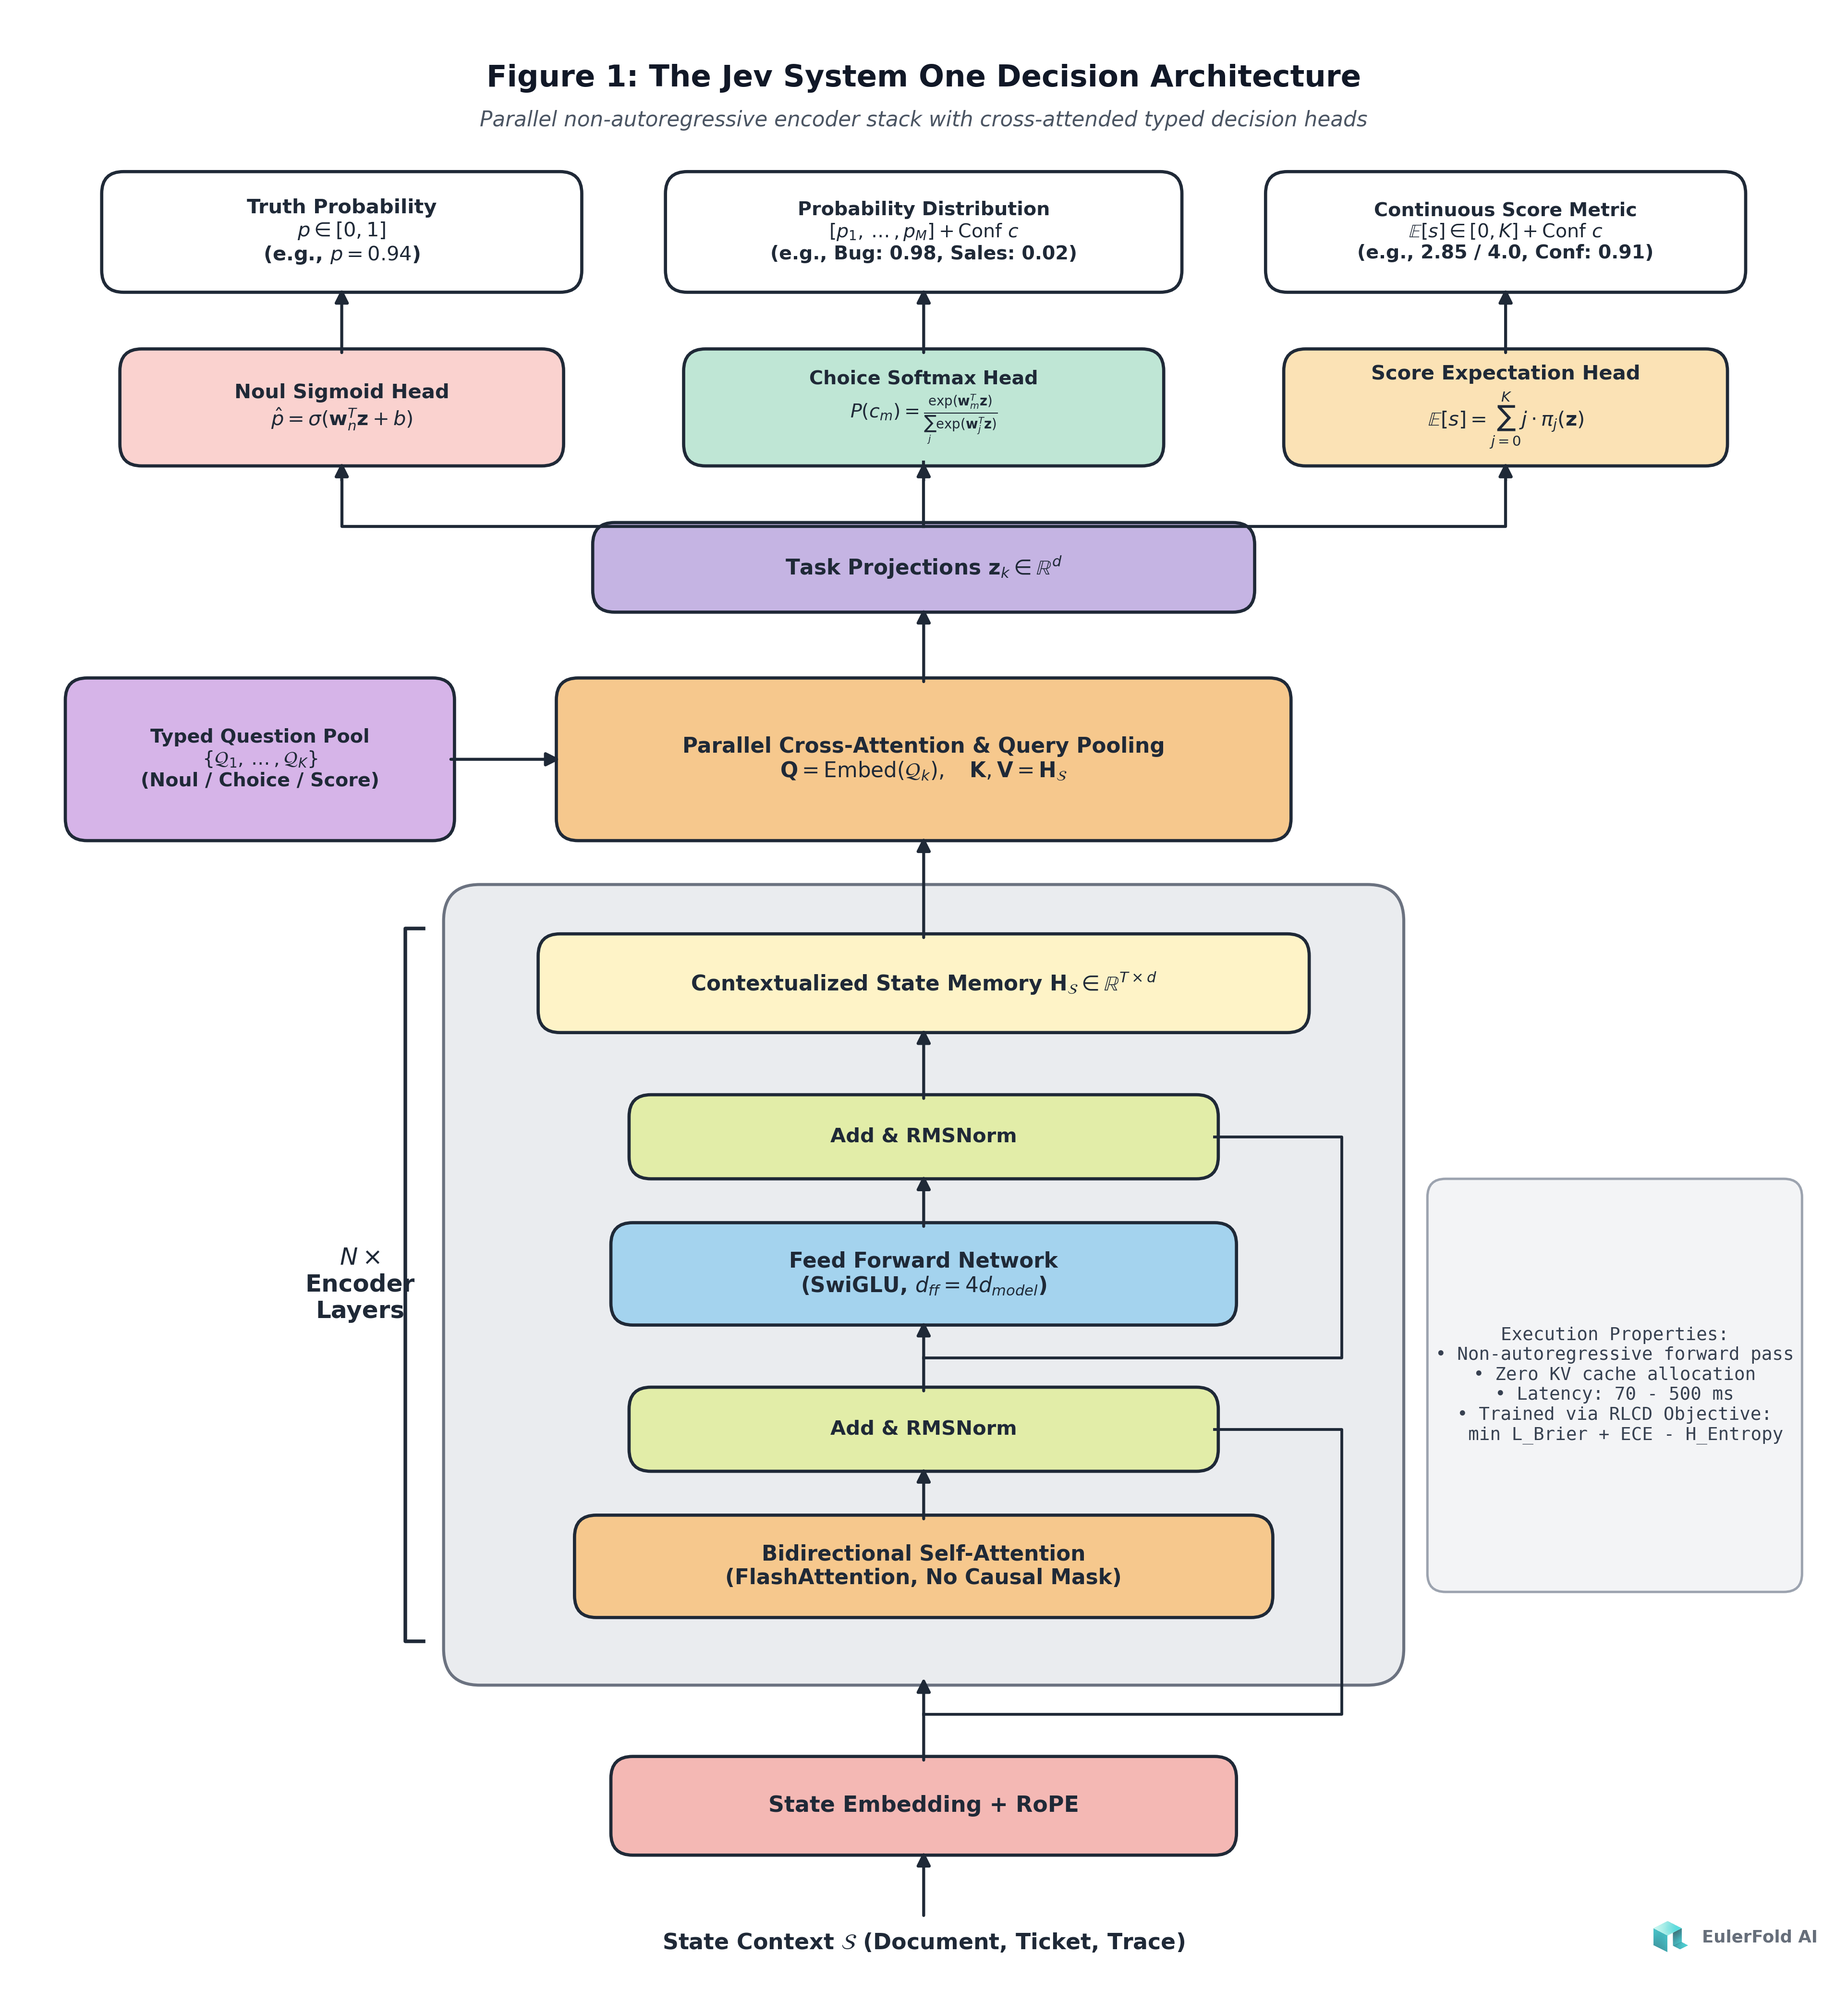
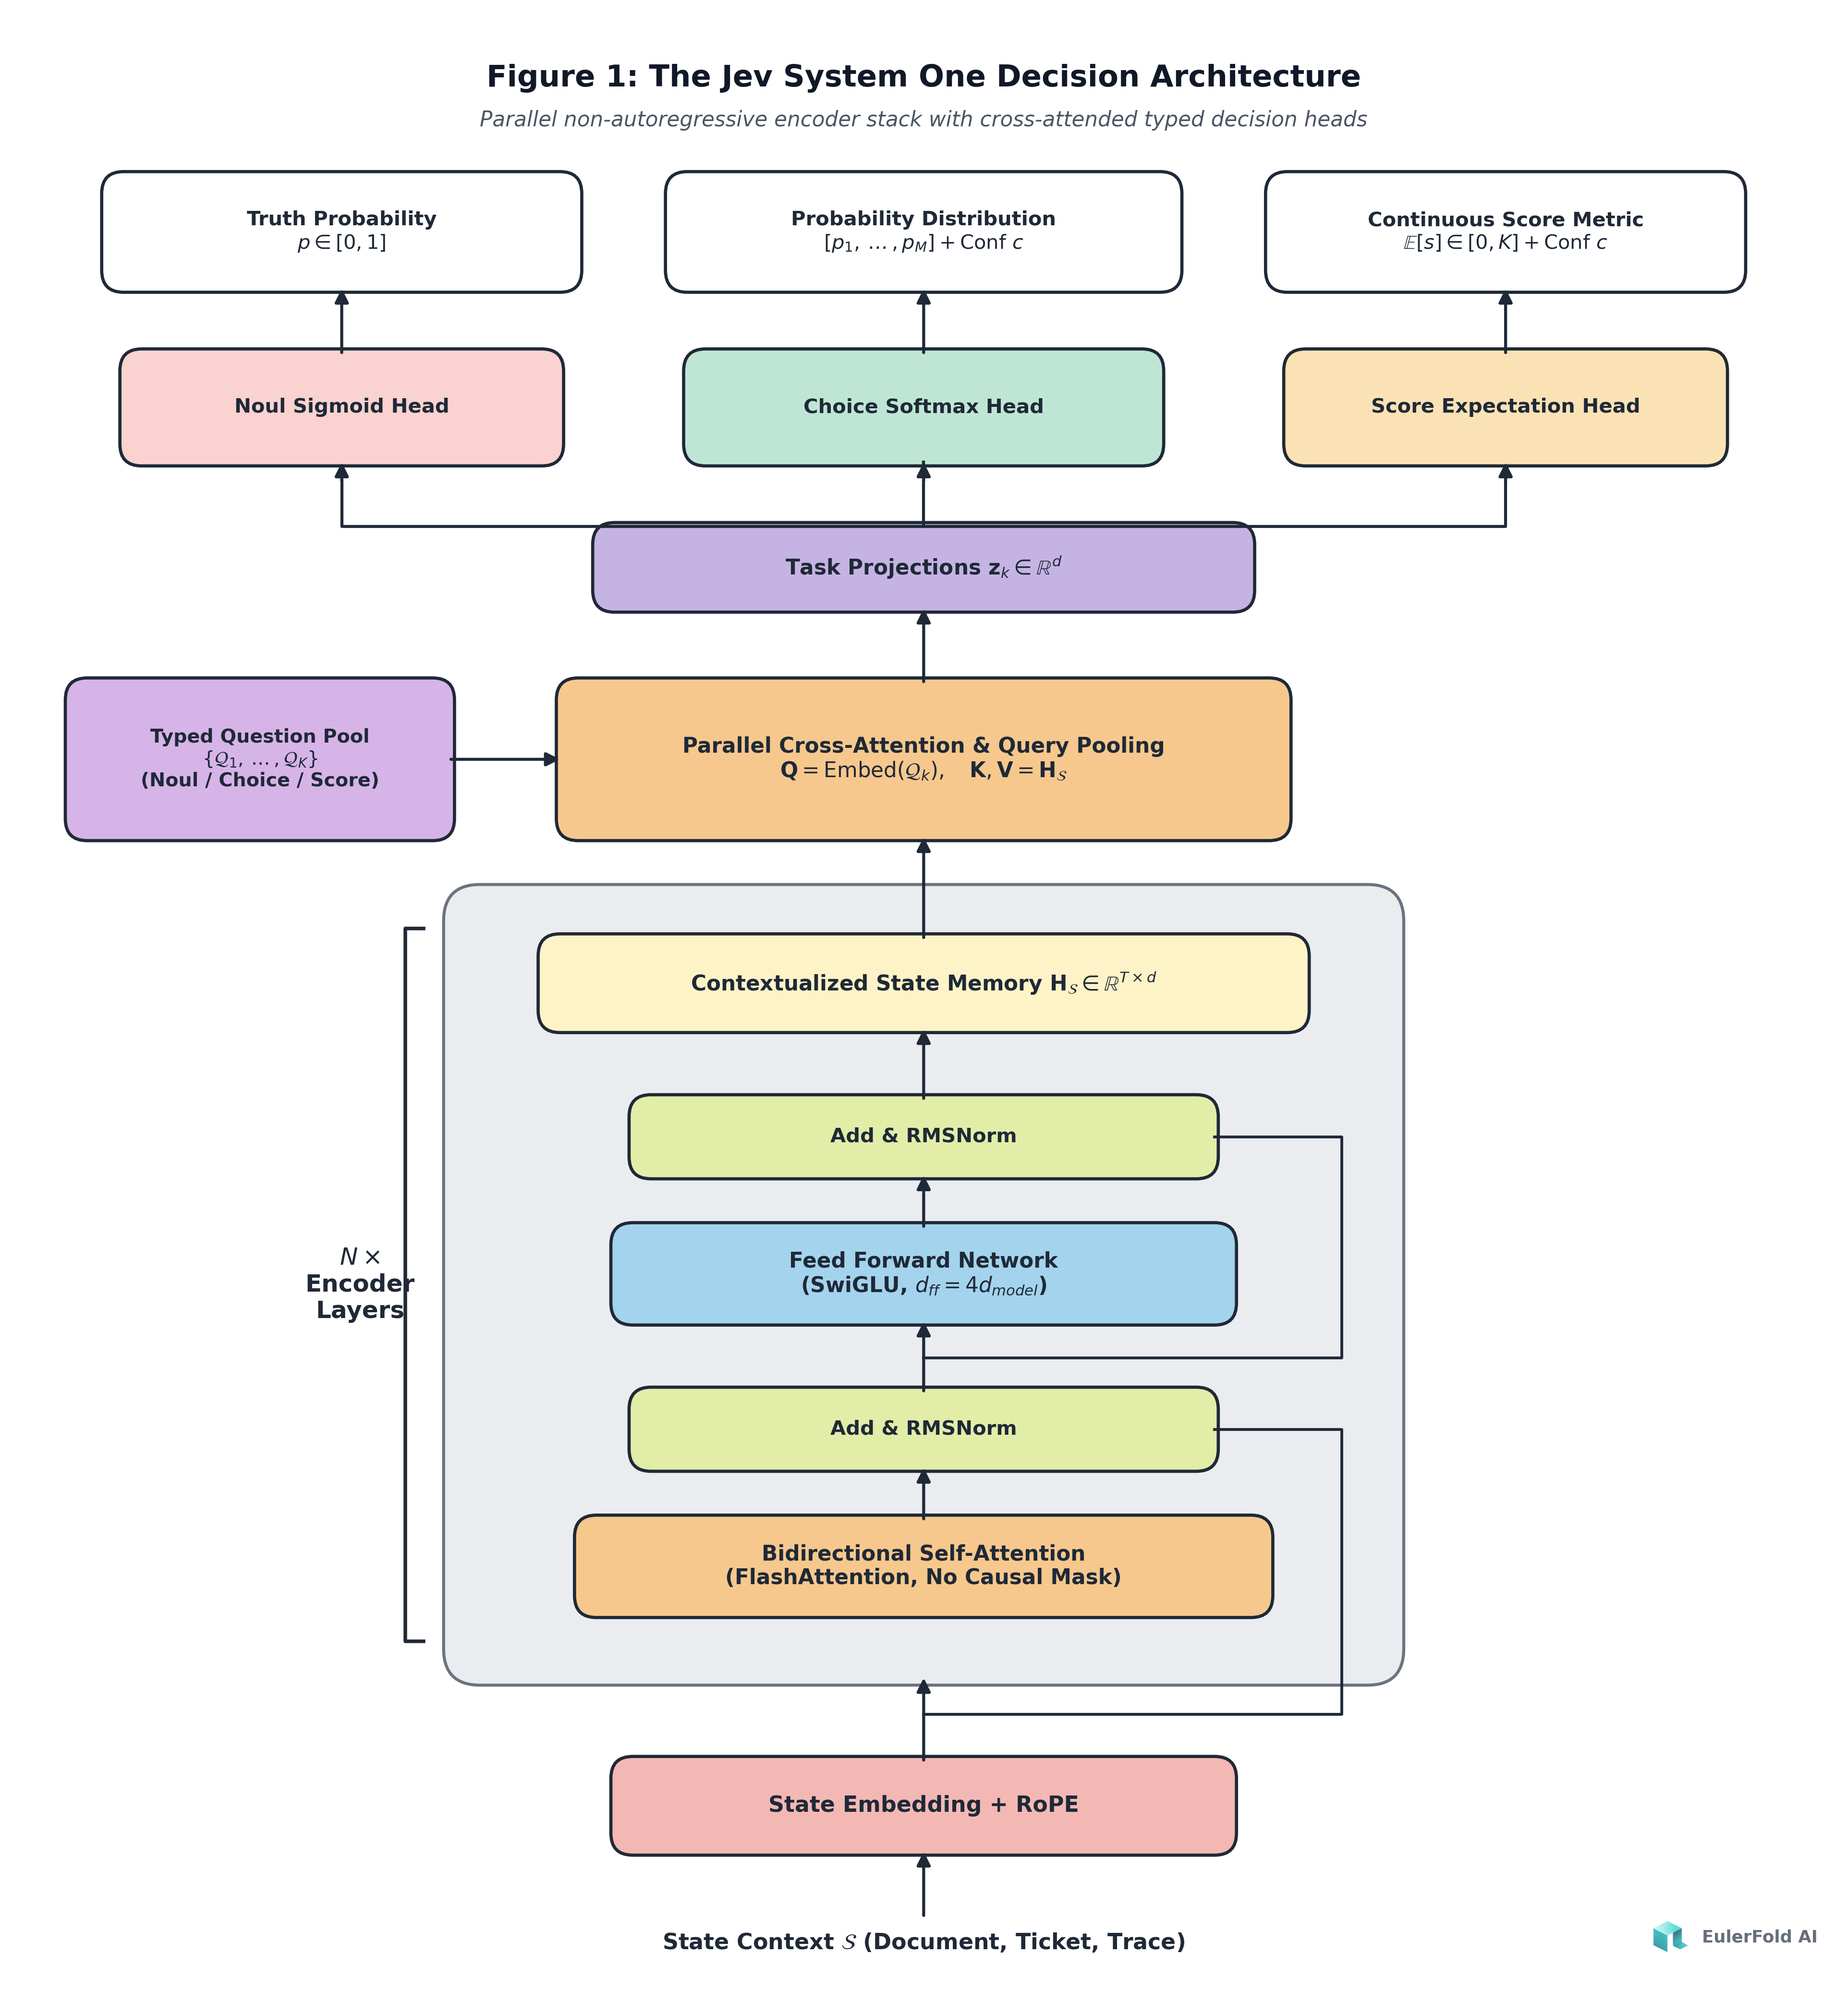
fix(articles): clean Jev architecture diagram and align Kahneman watermark

diff --git a/scripts/generate_jev_diagram.py b/scripts/generate_jev_diagram.py
@@ -140,36 +140,21 @@ def create_jev_architecture_diagram(output_path):
     draw_arrow(82, 82.5, 82, 83.5)
 
     # --- HEAD 1: NOUL (Left) ---
-    draw_box(6, 83.5, 24, 6.0, c_head_noul, "Noul Sigmoid Head\n$\\hat{p} = \\sigma(\\mathbf{w}_n^T \\mathbf{z} + b)$", fontsize=10, bold=True)
+    draw_box(6, 83.5, 24, 6.0, c_head_noul, "Noul Sigmoid Head", fontsize=10, bold=True)
     draw_arrow(18, 89.5, 18, 93.0)
-    draw_box(5, 93.0, 26, 6.2, '#FFFFFF', "Truth Probability\n$p \\in [0, 1]$\n(e.g., $p = 0.94$)", fontsize=10, bold=True)
+    draw_box(5, 93.0, 26, 6.2, '#FFFFFF', "Truth Probability\n$p \\in [0, 1]$", fontsize=10, bold=True)
 
     # --- HEAD 2: CHOICE (Center) ---
-    draw_box(37, 83.5, 26, 6.0, c_head_choice, "Choice Softmax Head\n$P(c_m) = \\frac{\\exp(\\mathbf{w}_m^T \\mathbf{z})}{\\sum_j \\exp(\\mathbf{w}_j^T \\mathbf{z})}$", fontsize=9.5, bold=True)
+    draw_box(37, 83.5, 26, 6.0, c_head_choice, "Choice Softmax Head", fontsize=10, bold=True)
     draw_arrow(50, 89.5, 50, 93.0)
-    draw_box(36, 93.0, 28, 6.2, '#FFFFFF', "Probability Distribution\n$[p_1, \\dots, p_M] + \\text{Conf } c$\n(e.g., Bug: 0.98, Sales: 0.02)", fontsize=9.5, bold=True)
+    draw_box(36, 93.0, 28, 6.2, '#FFFFFF', "Probability Distribution\n$[p_1, \\dots, p_M] + \\text{Conf } c$", fontsize=10, bold=True)
 
     # --- HEAD 3: SCORE (Right) ---
-    draw_box(70, 83.5, 24, 6.0, c_head_score, "Score Expectation Head\n$\\mathbb{E}[s] = \\sum_{j=0}^K j \\cdot \\pi_j(\\mathbf{z})$", fontsize=10, bold=True)
+    draw_box(70, 83.5, 24, 6.0, c_head_score, "Score Expectation Head", fontsize=10, bold=True)
     draw_arrow(82, 89.5, 82, 93.0)
-    draw_box(69, 93.0, 26, 6.2, '#FFFFFF', "Continuous Score Metric\n$\\mathbb{E}[s] \\in [0, K] + \\text{Conf } c$\n(e.g., 2.85 / 4.0, Conf: 0.91)", fontsize=9.5, bold=True)
+    draw_box(69, 93.0, 26, 6.2, '#FFFFFF', "Continuous Score Metric\n$\\mathbb{E}[s] \\in [0, K] + \\text{Conf } c$", fontsize=10, bold=True)
 
-    # -------------------------------------------------------------
-    # 6. ANNOTATIONS & SYSTEM ATTRIBUTES (Right Side Legend)
-    # -------------------------------------------------------------
-    info_box_text = (
-        "Execution Properties:\n"
-        "• Non-autoregressive forward pass\n"
-        "• Zero KV cache allocation\n"
-        "• Latency: 70 - 500 ms\n"
-        "• Trained via RLCD Objective:\n"
-        "  min L_Brier + ECE - H_Entropy"
-    )
-    p_info = FancyBboxPatch((78, 22), 20, 22, boxstyle="round,pad=0.3,rounding_size=1.0",
-                            facecolor='#F3F4F6', edgecolor='#9CA3AF', linewidth=1.2, zorder=2)
-    ax.add_patch(p_info)
-    ax.text(88, 33, info_box_text, ha='center', va='center', fontsize=9.0, 
-            color='#374151', family='monospace', zorder=3)
+    # (Execution properties side block removed for a clean diagram layout)
 
     # -------------------------------------------------------------
     # 7. EULERFOLD AI WATERMARK (Bottom Right, Discrete)
